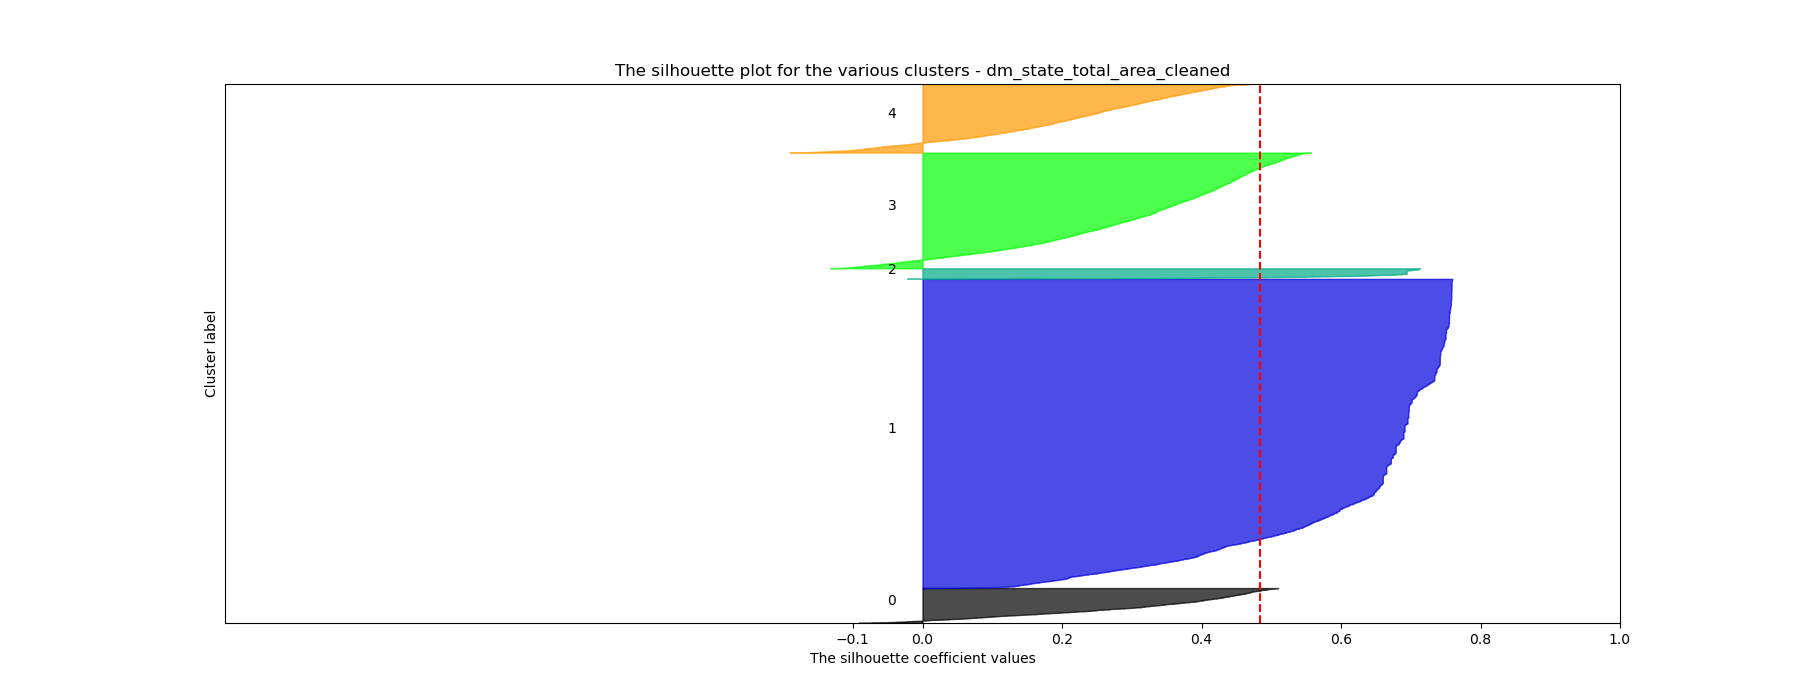
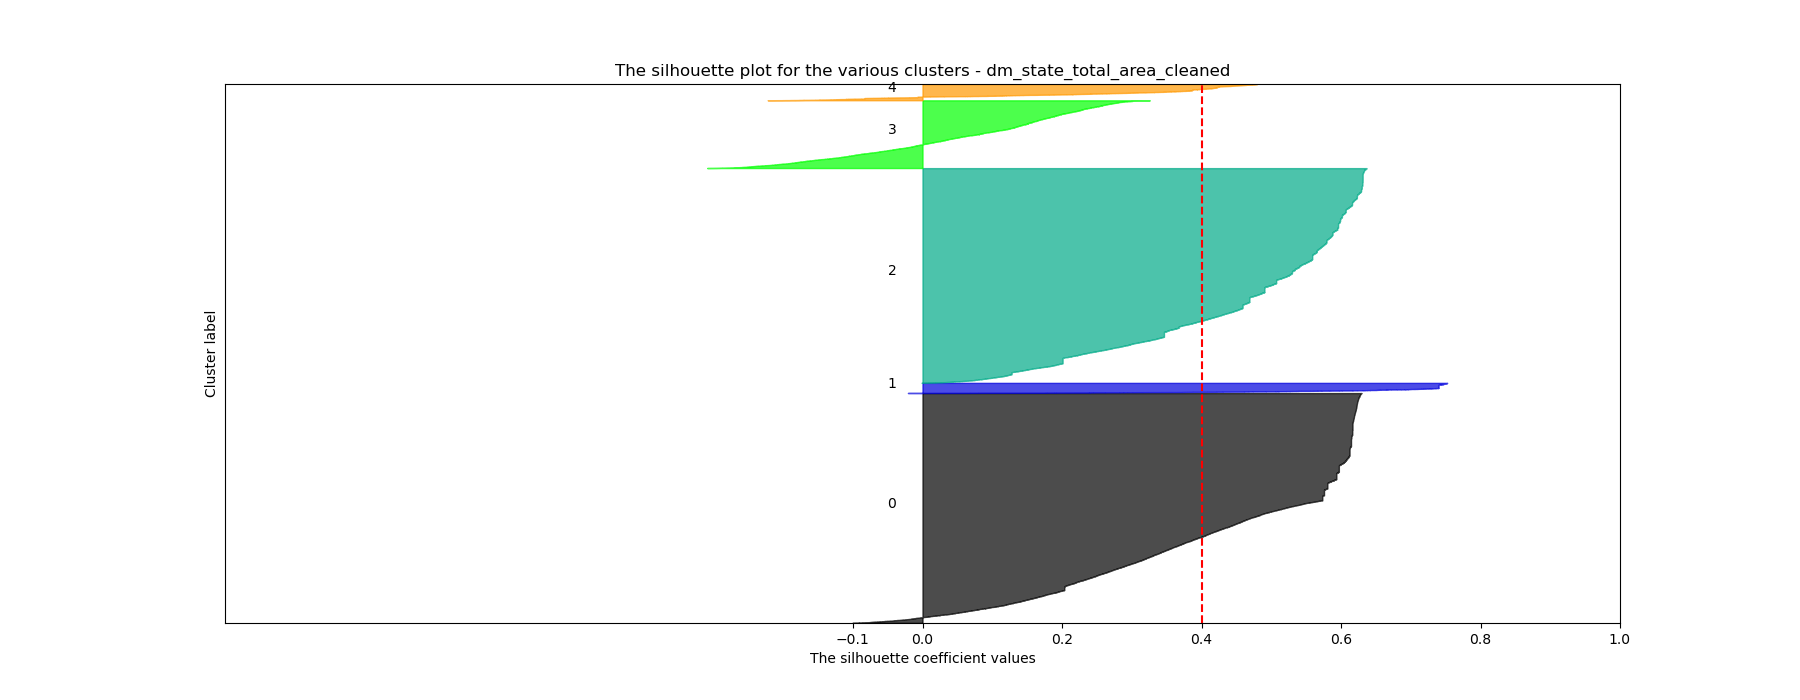
made the kmeans script friendly for the TAs

Changed region(s): [[0.4044, 0.12, 0.8089, 0.9]]

diff --git a/clustering_kmeans_main.py b/clustering_kmeans_main.py
@@ -1,7 +1,13 @@
 '''
 Get ready to cluster some fire data!!
 
-Code is referenced from Dr. Gates' tutorial on KMeans By Hand in Python found at https://gatesboltonanalytics.com/?page_id=924 
+IMPORTANT NOTE TO TAS: 
+    This script deals with some pretty dense datasets. Even after sampling the script takes a very long time to run.
+    For the reproducibility of the script only one of the datasets has been used to demonstrate each of the parts.
+    This way you can see that the code does perform as expected but that it doesn't waste your time 
+    - Note it still takes about 20 minutes to run this script. 
+    
+    Especially DO NOT RUN THE 2MIL DATASET!!!! I GAVE UP ON THIS ONE ENTIRELY - I WAS AT HOUR 18 AND IT WAS ONLY HALFWAY DONE!!!
 '''
 
 import pandas as pd
@@ -27,24 +33,24 @@ pd.set_option('display.max_colwidth', -1)
 #-------------------------------------------------------------------------
 ## Setting the folder path to the cleaned but not formatted data
 dm_state_total_area_path = "./CleanData/dm_state_total_area_cleaned.csv"
-dm_state_percent_area_path = "./CleanData/dm_state_percent_area_clean.csv"
-fires_monthly_folder_path = "./CleanData/us_fires_burn_monthly.csv"
-or_weather_wildfires_path = "./CleanData/or_weather_wildfires_cleaned.csv"
-lightining_fires_path = "./CleanData/lightning_wildfires_clean.csv"
-or_weather_wildfires_comments_vector_path = "./CleanData/or_weather_wildfires_cause_comments_vectorized.csv"
-or_weather_wildfires_specific_vector_path = "./CleanData/or_weather_wildfires_specific_cause_vectorized.csv"
-news_healines_vector_path = "./CleanData/NewsHeadlines_vectorized.csv"
+# dm_state_percent_area_path = "./CleanData/dm_state_percent_area_clean.csv"
+# fires_monthly_folder_path = "./CleanData/us_fires_burn_monthly.csv"
+# or_weather_wildfires_path = "./CleanData/or_weather_wildfires_cleaned.csv"
+# lightining_fires_path = "./CleanData/lightning_wildfires_clean.csv"
+# or_weather_wildfires_comments_vector_path = "./CleanData/or_weather_wildfires_cause_comments_vectorized.csv"
+# or_weather_wildfires_specific_vector_path = "./CleanData/or_weather_wildfires_specific_cause_vectorized.csv"
+# news_healines_vector_path = "./CleanData/NewsHeadlines_vectorized.csv"
 # us_wildfires_2mil_path = "./CleanData/us_wildfires_2mil_cleaned.csv"
 
 ## Setting the filename
 dm_state_total_area_filename = "dm_state_total_area_cleaned"
-dm_state_percent_area_filename = "dm_state_percent_area_clean"
-us_fires_burn_monthly_filename = "us_fires_burn_monthly"
-or_weather_wildfires_filename = "or_weather_wildfires_cleaned"
-lightining_fires_filename = "lightning_wildfires_clean"
-or_weather_wildfires_comments_vector_filename = "or_weather_wildfires_cause_comments_vectorized"
-or_weather_wildfires_specific_vector_filename = "or_weather_wildfires_specific_cause_vectorized"
-news_healines_vector_filename = "NewsHeadlines_vectorized"
+# dm_state_percent_area_filename = "dm_state_percent_area_clean"
+# us_fires_burn_monthly_filename = "us_fires_burn_monthly"
+# or_weather_wildfires_filename = "or_weather_wildfires_cleaned"
+# lightining_fires_filename = "lightning_wildfires_clean"
+# or_weather_wildfires_comments_vector_filename = "or_weather_wildfires_cause_comments_vectorized"
+# or_weather_wildfires_specific_vector_filename = "or_weather_wildfires_specific_cause_vectorized"
+# news_healines_vector_filename = "NewsHeadlines_vectorized"
 # us_wildfires_2mil_filename = "us_wildfires_2mil_cleaned"
 #-------------------------------------------------------------------------
 
@@ -58,83 +64,83 @@ def main():
     print("\n---------- Ingesting Cleaned Fire and Drought Data ----------\n")
     # Ingest Data
     dm_state_total_area = pd.read_csv(dm_state_total_area_path)
-    dm_state_percent_area = pd.read_csv(dm_state_percent_area_path)
-    us_fires_burn_monthly = pd.read_csv(fires_monthly_folder_path)
-    or_weather_wildfires = pd.read_csv(or_weather_wildfires_path)
-    lightining_fires = pd.read_csv(lightining_fires_path)
+    # dm_state_percent_area = pd.read_csv(dm_state_percent_area_path)
+    # us_fires_burn_monthly = pd.read_csv(fires_monthly_folder_path)
+    # or_weather_wildfires = pd.read_csv(or_weather_wildfires_path)
+    # lightining_fires = pd.read_csv(lightining_fires_path)
     
-    or_weather_wildfires_comments_vector = pd.read_csv(or_weather_wildfires_comments_vector_path)
-    or_weather_wildfires_specific_vector = pd.read_csv(or_weather_wildfires_specific_vector_path)
-    news_healines_vector = pd.read_csv(news_healines_vector_path)
-    # us_wildfires_2mil = pd.read_csv(us_wildfires_2mil_path)
+    # or_weather_wildfires_comments_vector = pd.read_csv(or_weather_wildfires_comments_vector_path)
+    # or_weather_wildfires_specific_vector = pd.read_csv(or_weather_wildfires_specific_vector_path)
+    # news_healines_vector = pd.read_csv(news_healines_vector_path)
+    # # us_wildfires_2mil = pd.read_csv(us_wildfires_2mil_path)
     
     print("\n---------- Transforming Data for Unsupervised Learning ----------\n")
     ## Transform Data to keep numeric columns
     dm_state_total_area_transformed = transform_data(dm_state_total_area_filename, dm_state_total_area, ['None', 'D0', 'D1', 'D2', 'D3', 'D4', 'DSCI'])
-    dm_state_percent_area_transformed = transform_data(dm_state_percent_area_filename, dm_state_percent_area, ['None', 'D0', 'D1', 'D2', 'D3', 'D4', 'DSCI'])
-    us_fires_burn_monthly_transformed = transform_data(us_fires_burn_monthly_filename, us_fires_burn_monthly, ['Acres_Burned', 'Number_of_Fires', 'Acres_Burned_per_Fire'])
-    or_weather_wildfires_transformed = transform_data(or_weather_wildfires_filename, or_weather_wildfires, ['tmax', 'tmin', 'tavg', 'prcp', 'EstTotalAcres', 'FireDuration_hrs'])
-    lightining_fires_transformed = transform_data(lightining_fires_filename, lightining_fires, ["Days_to_extinguish_fire", "FIRE_SIZE"])
-    # us_wildfires_2mil_transformed = transform_data(us_wildfires_2mil_filename, us_wildfires_2mil, ['FIRE_SIZE', 'FireDuration_hrs'])
+    # dm_state_percent_area_transformed = transform_data(dm_state_percent_area_filename, dm_state_percent_area, ['None', 'D0', 'D1', 'D2', 'D3', 'D4', 'DSCI'])
+    # us_fires_burn_monthly_transformed = transform_data(us_fires_burn_monthly_filename, us_fires_burn_monthly, ['Acres_Burned', 'Number_of_Fires', 'Acres_Burned_per_Fire'])
+    # or_weather_wildfires_transformed = transform_data(or_weather_wildfires_filename, or_weather_wildfires, ['tmax', 'tmin', 'tavg', 'prcp', 'EstTotalAcres', 'FireDuration_hrs'])
+    # lightining_fires_transformed = transform_data(lightining_fires_filename, lightining_fires, ["Days_to_extinguish_fire", "FIRE_SIZE"])
+    # # us_wildfires_2mil_transformed = transform_data(us_wildfires_2mil_filename, us_wildfires_2mil, ['FIRE_SIZE', 'FireDuration_hrs'])
     
     # ## Transform Data to drop the label columnss
-    or_weather_wildfires_comments_vector_transformed = or_weather_wildfires_comments_vector.drop(['GeneralCause'], axis=1)
-    or_weather_wildfires_specific_vector_transformed = or_weather_wildfires_specific_vector.drop(['GeneralCause'], axis=1)
-    news_healines_vector_transformed = news_healines_vector.drop(['LABEL'], axis=1)
+    # or_weather_wildfires_comments_vector_transformed = or_weather_wildfires_comments_vector.drop(['GeneralCause'], axis=1)
+    # or_weather_wildfires_specific_vector_transformed = or_weather_wildfires_specific_vector.drop(['GeneralCause'], axis=1)
+    # news_healines_vector_transformed = news_healines_vector.drop(['LABEL'], axis=1)
     
     print("\n---------- Printing the Prepared Datasets for Website Use ----------\n")
     print_df(dm_state_total_area_filename, dm_state_total_area_transformed)
-    print_df(dm_state_percent_area_filename, dm_state_percent_area_transformed)
-    print_df(us_fires_burn_monthly_filename, us_fires_burn_monthly_transformed)
-    print_df(or_weather_wildfires_filename, or_weather_wildfires_transformed)
-    print_df(lightining_fires_filename, lightining_fires_transformed)
-    print_df(or_weather_wildfires_comments_vector_filename, or_weather_wildfires_comments_vector_transformed)
-    print_df(or_weather_wildfires_specific_vector_filename, or_weather_wildfires_specific_vector_transformed)
-    print_df(news_healines_vector_filename, news_healines_vector_transformed)
+    # print_df(dm_state_percent_area_filename, dm_state_percent_area_transformed)
+    # print_df(us_fires_burn_monthly_filename, us_fires_burn_monthly_transformed)
+    # print_df(or_weather_wildfires_filename, or_weather_wildfires_transformed)
+    # print_df(lightining_fires_filename, lightining_fires_transformed)
+    # print_df(or_weather_wildfires_comments_vector_filename, or_weather_wildfires_comments_vector_transformed)
+    # print_df(or_weather_wildfires_specific_vector_filename, or_weather_wildfires_specific_vector_transformed)
+    # print_df(news_healines_vector_filename, news_healines_vector_transformed)
     
     
     print("\n---------- Normalizing Data for Unsupervised Learning ----------\n")
     dm_state_total_area_norm = normalize_df(dm_state_total_area_filename, dm_state_total_area_transformed)
-    dm_state_percent_area_norm = normalize_df(dm_state_percent_area_filename, dm_state_percent_area_transformed)
-    us_fires_burn_monthly_norm = normalize_df(us_fires_burn_monthly_filename, us_fires_burn_monthly_transformed)
-    or_weather_wildfires_norm = normalize_df(or_weather_wildfires_filename, or_weather_wildfires_transformed)
-    lightining_fires_norm = normalize_df(lightining_fires_filename, lightining_fires_transformed)
+    # dm_state_percent_area_norm = normalize_df(dm_state_percent_area_filename, dm_state_percent_area_transformed)
+    # us_fires_burn_monthly_norm = normalize_df(us_fires_burn_monthly_filename, us_fires_burn_monthly_transformed)
+    # or_weather_wildfires_norm = normalize_df(or_weather_wildfires_filename, or_weather_wildfires_transformed)
+    # lightining_fires_norm = normalize_df(lightining_fires_filename, lightining_fires_transformed)
     
     print("\n---------- Standardizing Data for Unsupervised Learning ----------\n")
     dm_state_total_area_stan = standardize_df(dm_state_total_area_filename, dm_state_total_area_transformed)
-    dm_state_percent_area_stan = standardize_df(dm_state_percent_area_filename, dm_state_percent_area_transformed)
-    us_fires_burn_monthly_stan = standardize_df(us_fires_burn_monthly_filename, us_fires_burn_monthly_transformed)
-    or_weather_wildfires_stan = standardize_df(or_weather_wildfires_filename, or_weather_wildfires_transformed)
-    lightining_fires_stan = standardize_df(lightining_fires_filename, lightining_fires_transformed)
+    # dm_state_percent_area_stan = standardize_df(dm_state_percent_area_filename, dm_state_percent_area_transformed)
+    # us_fires_burn_monthly_stan = standardize_df(us_fires_burn_monthly_filename, us_fires_burn_monthly_transformed)
+    # or_weather_wildfires_stan = standardize_df(or_weather_wildfires_filename, or_weather_wildfires_transformed)
+    # lightining_fires_stan = standardize_df(lightining_fires_filename, lightining_fires_transformed)
     
     
     print("\n---------- Determining Optimal Number of Clusters ----------\n")
     
     print("\n--- creating samples for quick computation ---\n")
-    or_weather_wildfires_transformed_sample = get_df_sample(or_weather_wildfires_filename, or_weather_wildfires_transformed, 0.3)
-    or_weather_wildfires_norm_sample = get_df_sample(or_weather_wildfires_filename + "_normalized", or_weather_wildfires_norm, 0.3)
-    or_weather_wildfires_stan_sample = get_df_sample(or_weather_wildfires_filename + "_standardized", or_weather_wildfires_stan, 0.3)
+    # or_weather_wildfires_transformed_sample = get_df_sample(or_weather_wildfires_filename, or_weather_wildfires_transformed, 0.3)
+    # or_weather_wildfires_norm_sample = get_df_sample(or_weather_wildfires_filename + "_normalized", or_weather_wildfires_norm, 0.3)
+    # or_weather_wildfires_stan_sample = get_df_sample(or_weather_wildfires_filename + "_standardized", or_weather_wildfires_stan, 0.3)
     
     dm_state_total_area_transformed_sample = get_df_sample(dm_state_total_area_filename, dm_state_total_area_transformed, 0.7)
     dm_state_total_area_norm_sample = get_df_sample(dm_state_total_area_filename + "_normalized", dm_state_total_area_norm, 0.7)
     dm_state_total_area_stan_sample = get_df_sample(dm_state_total_area_filename + "_standardized", dm_state_total_area_stan, 0.7)
     
-    dm_state_percent_area_transformed_sample = get_df_sample(dm_state_percent_area_filename, dm_state_percent_area_transformed, 0.7)
-    dm_state_percent_area_norm_sample = get_df_sample(dm_state_percent_area_filename  + "_normalized", dm_state_percent_area_norm, 0.7)
-    dm_state_percent_area_stan_sample = get_df_sample(dm_state_percent_area_filename  + "_standardized", dm_state_percent_area_stan, 0.7)
+    # dm_state_percent_area_transformed_sample = get_df_sample(dm_state_percent_area_filename, dm_state_percent_area_transformed, 0.7)
+    # dm_state_percent_area_norm_sample = get_df_sample(dm_state_percent_area_filename  + "_normalized", dm_state_percent_area_norm, 0.7)
+    # dm_state_percent_area_stan_sample = get_df_sample(dm_state_percent_area_filename  + "_standardized", dm_state_percent_area_stan, 0.7)
     
-    us_fires_burn_monthly_transformed_sample = get_df_sample(us_fires_burn_monthly_filename, us_fires_burn_monthly_transformed, 0.7)
-    us_fires_burn_monthly_norm_sample = get_df_sample(us_fires_burn_monthly_filename + "_normalized", us_fires_burn_monthly_norm, 0.7)
-    us_fires_burn_monthly_stan_sample = get_df_sample(us_fires_burn_monthly_filename + "_standardized", us_fires_burn_monthly_stan, 0.7)
+    # us_fires_burn_monthly_transformed_sample = get_df_sample(us_fires_burn_monthly_filename, us_fires_burn_monthly_transformed, 0.7)
+    # us_fires_burn_monthly_norm_sample = get_df_sample(us_fires_burn_monthly_filename + "_normalized", us_fires_burn_monthly_norm, 0.7)
+    # us_fires_burn_monthly_stan_sample = get_df_sample(us_fires_burn_monthly_filename + "_standardized", us_fires_burn_monthly_stan, 0.7)
     
-    lightining_fires_transformed_sample = get_df_sample(lightining_fires_filename, lightining_fires_transformed, 0.3)
-    lightining_fires_norm_sample = get_df_sample(lightining_fires_filename + "_normalized", lightining_fires_norm, 0.3)
-    lightining_fires_stan_sample = get_df_sample(lightining_fires_filename + "_standardized", lightining_fires_stan, 0.3)
+    # lightining_fires_transformed_sample = get_df_sample(lightining_fires_filename, lightining_fires_transformed, 0.3)
+    # lightining_fires_norm_sample = get_df_sample(lightining_fires_filename + "_normalized", lightining_fires_norm, 0.3)
+    # lightining_fires_stan_sample = get_df_sample(lightining_fires_filename + "_standardized", lightining_fires_stan, 0.3)
     
     #-------------------------------------------------------------------------------------------------------------------
     ## Elbow
     ## Ran these and then looked at the graphs. The values of k are then hard coded
-    # determine_k_elbow(dm_state_total_area_filename, dm_state_total_area_transformed)
+    determine_k_elbow(dm_state_total_area_filename, dm_state_total_area_transformed)
     # determine_k_elbow(dm_state_percent_area_filename, dm_state_percent_area_transformed)
     # determine_k_elbow(us_fires_burn_monthly_filename, us_fires_burn_monthly_transformed)
     # determine_k_elbow(or_weather_wildfires_filename, or_weather_wildfires_transformed)
@@ -142,21 +148,28 @@ def main():
     # determine_k_elbow(or_weather_wildfires_comments_vector_filename, or_weather_wildfires_comments_vector_transformed)
     # determine_k_elbow(or_weather_wildfires_specific_vector_filename, or_weather_wildfires_specific_vector_transformed)
     # determine_k_elbow(news_healines_vector_filename, news_healines_vector_transformed)
-    # ## determine_k_elbow(us_wildfires_2mil_filename, us_wildfires_2mil_transformed)
     
     ## Elbow Norm
-    # determine_k_elbow(dm_state_total_area_filename + "_norm", dm_state_total_area_norm)
+    determine_k_elbow(dm_state_total_area_filename + "_norm", dm_state_total_area_norm)
     # determine_k_elbow(dm_state_percent_area_filename + "_norm", dm_state_percent_area_norm)
     # determine_k_elbow(us_fires_burn_monthly_filename + "_norm", us_fires_burn_monthly_norm)
     # determine_k_elbow(or_weather_wildfires_filename + "_norm", or_weather_wildfires_norm)
     # determine_k_elbow(lightining_fires_filename + "_norm", lightining_fires_norm)
+    
+    ## Elbow Standardized
+    determine_k_elbow(dm_state_total_area_filename + "_standardized", dm_state_total_area_stan)
+    # determine_k_elbow(dm_state_percent_area_filename + "_standardized", dm_state_percent_area_stan)
+    # determine_k_elbow(us_fires_burn_monthly_filename + "_standardized", us_fires_burn_monthly_stan)
+    # determine_k_elbow(or_weather_wildfires_filename + "_standardized", or_weather_wildfires_stan)
+    # determine_k_elbow(lightining_fires_filename + "_standardized", lightining_fires_stan)
+    
     ## determine_k_elbow(us_wildfires_2mil_filename, us_wildfires_2mil_transformed)
     #-------------------------------------------------------------------------------------------------------------------
     
     #---------------------------------------------------------------------------------------------------------------------
     ## Silhouette
     ## This first method of plotting the silhouette score results prints those finger graphs
-    # determining_k_silhouette(dm_state_total_area_filename, dm_state_total_area_transformed)
+    determining_k_silhouette(dm_state_total_area_filename, dm_state_total_area_transformed)
     # determining_k_silhouette(dm_state_percent_area_filename, dm_state_percent_area_transformed)
     # determining_k_silhouette(us_fires_burn_monthly_filename, us_fires_burn_monthly_transformed)
     # determining_k_silhouette(dm_state_total_area_filename + "_norm", dm_state_total_area_norm)
@@ -168,13 +181,13 @@ def main():
     # determining_k_silhouette(or_weather_wildfires_specific_vector_filename, or_weather_wildfires_specific_vector_transformed)
     # determining_k_silhouette(news_healines_vector_filename, news_healines_vector_transformed)
     
-    # THIS TAKES WAYYYYYYYYY TO LONG - like I was on hour 18 and it was still not done...
+    # DO NOT RUN!!!!! THIS TAKES WAYYYYYYYYY TO LONG - like I was on hour 18 and it was still not done...
     # determining_k_silhouette(us_wildfires_2mil_filename, us_wildfires_2mil_transformed)
     
     ## This method of plotting the silhouette score results in a line graph - more readable
-    # silhouette_line_graph(dm_state_total_area_filename, dm_state_total_area_transformed_sample)
-    # silhouette_line_graph(dm_state_total_area_filename + "_normalized", dm_state_total_area_norm_sample)
-    # silhouette_line_graph(dm_state_total_area_filename + "_standardized", dm_state_total_area_stan_sample)
+    silhouette_line_graph(dm_state_total_area_filename, dm_state_total_area_transformed_sample)
+    silhouette_line_graph(dm_state_total_area_filename + "_normalized", dm_state_total_area_norm_sample)
+    silhouette_line_graph(dm_state_total_area_filename + "_standardized", dm_state_total_area_stan_sample)
     
     # silhouette_line_graph(dm_state_percent_area_filename, dm_state_percent_area_transformed_sample)
     # silhouette_line_graph(dm_state_percent_area_filename + "_normalized", dm_state_percent_area_norm_sample)
@@ -212,7 +225,7 @@ def main():
     # kmeans_clustering(dm_state_total_area_filename + "_4_standardized", dm_state_total_area_stan, 4)
     
     ## Record Data
-    # kmeans_clustering(dm_state_total_area_filename, dm_state_total_area_transformed, 2)
+    kmeans_clustering(dm_state_total_area_filename, dm_state_total_area_transformed, 2)
     # kmeans_clustering(dm_state_percent_area_filename, dm_state_percent_area_transformed, 2)
     
     # kmeans_clustering(us_fires_burn_monthly_filename, us_fires_burn_monthly_transformed, 2)
@@ -244,7 +257,7 @@ def main():
     
     ## Vector Text Data
     # kmeans_clustering(or_weather_wildfires_comments_vector_filename, or_weather_wildfires_comments_vector_transformed, 2)
-    kmeans_clustering(or_weather_wildfires_comments_vector_filename + "_10", or_weather_wildfires_comments_vector_transformed, 10)
+    # kmeans_clustering(or_weather_wildfires_comments_vector_filename + "_10", or_weather_wildfires_comments_vector_transformed, 10)
     
     # kmeans_clustering(or_weather_wildfires_specific_vector_filename, or_weather_wildfires_specific_vector_transformed, 2)
     # kmeans_clustering(or_weather_wildfires_specific_vector_filename + "_9", or_weather_wildfires_specific_vector_transformed, 9)
@@ -262,6 +275,15 @@ def main():
 
 
 def kmeans_clustering(filename, df, n_clusters):
+    '''
+    This function uses the sklearn library to perform k-means clustering on a dataset 
+    and use Principal COmponent Analysis (PCA) to make a 2 dimensional graph to look at the clusters made.
+    Saves this graph to the kmeans folder in CreatedVisauls. 
+    Args:
+        - filename
+        - dataframe
+        - n_clusters (the number of clusters)
+    '''
     print(f"\n--- Performing KMeans on {filename} ---")
     # Perform KMeans clustering
     kmeans = KMeans(n_clusters=n_clusters, n_init=20)
